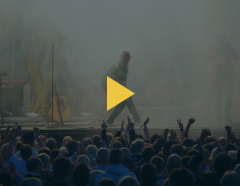
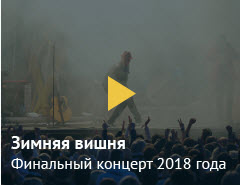
подключение слайдера

diff --git a/index.html b/index.html
@@ -12,9 +12,6 @@
 </head>
 
 <body>
-	<!-- <div class="wrapper"> -->
-		<!-- <div class="container"> -->
-
 			<!-- PROMO -->
 			<section class="promo">
 	<div class="container promo__container">
@@ -216,6 +213,7 @@
 		<section class="main__video">
 			<a id="video"></a>
 	<div class="container video__container">
+
 		<div class="block__left__video">
 			<div class="inner__title">
 				<h2 class="title main__title">В стенах школы</h2>
@@ -229,6 +227,8 @@
 						<p class="desc">Заключительный зимний
 							<br>концерт 2017 года
 							<br>выступало 97 учеников</p>
+<!-- 							<div class="slider">
+							<img src="images/video_card_img_1_320.jpg" alt="images" class="video_card"></div> -->
 					</div>
 				</div>
 			</div>
@@ -238,20 +238,28 @@
 				<div class="element element__video">
 					<p class="small--title">Янг Чжо</p>
 					<p class="small--desc">Репетиция сольной партии скрипки</p>
+					<div class="slider">
+					<img src="images/video_card_img_2.jpg" alt="images" class="video_card"></div>
 				</div>
 			</div>
 			<div class="small--video__middle">
 				<div class="element element__video">
 					<p class="small--title">Летний штиль</p>
 					<p class="small--desc">За кулисами концерта</p>
+					<div class="slider">
+					<img src="images/video_card_img_3.jpg" alt="images" class="video_card"></div>
 				</div>
 			</div>
 			<div class="small--video__bottom">
 				<div class="element element__video">
 					<p class="small--title">Летний штиль</p>
 					<p class="small--desc">За кулисами концерта</p>
+					<div class="slider">
+					<img src="images/video_card_img_4.jpg" alt="images" class="video_card"></div>
+
 				</div>
 			</div>
+		</div>
 		</div>
 </section>
 

diff --git a/js/script.js b/js/script.js
@@ -69,24 +69,16 @@ var isShown = false;
   }
 
 
-responsive: [
-{
-  breakpoint: 1024,
-  settings: {
-    slidesToShow: 3,
-    slidesToScroll: 3,
-    infinite: true,
-    dots: true
-  }
-}]
+        $(window).on("resize", function () {
 
+        if (window.innerWidth > 320) {
 
+        $(".slider").slick("unslick");
+        } else {
+        $(".slider").slick();
+        }
 
-
-
-
-
-
+        });
 
 
 

diff --git a/style/style.css b/style/style.css
@@ -382,7 +382,7 @@ h3.title
 	width: 240px;
 	height: 186px;
 	margin: 20px;
-	background-image: url(../images/video_card_img_1_320.jpg);
+	background-image: url(../images/img_5.jpg);
 }
 .block__right__video{
 	display: none;
@@ -924,7 +924,7 @@ h3.title
 	padding-top: 94px;
 }
 
-.btm, .arrow___video, .box__left{
+.btm, .arrow___video, .box__left, .slider, .video_card{
 	display: none;
 }
 
